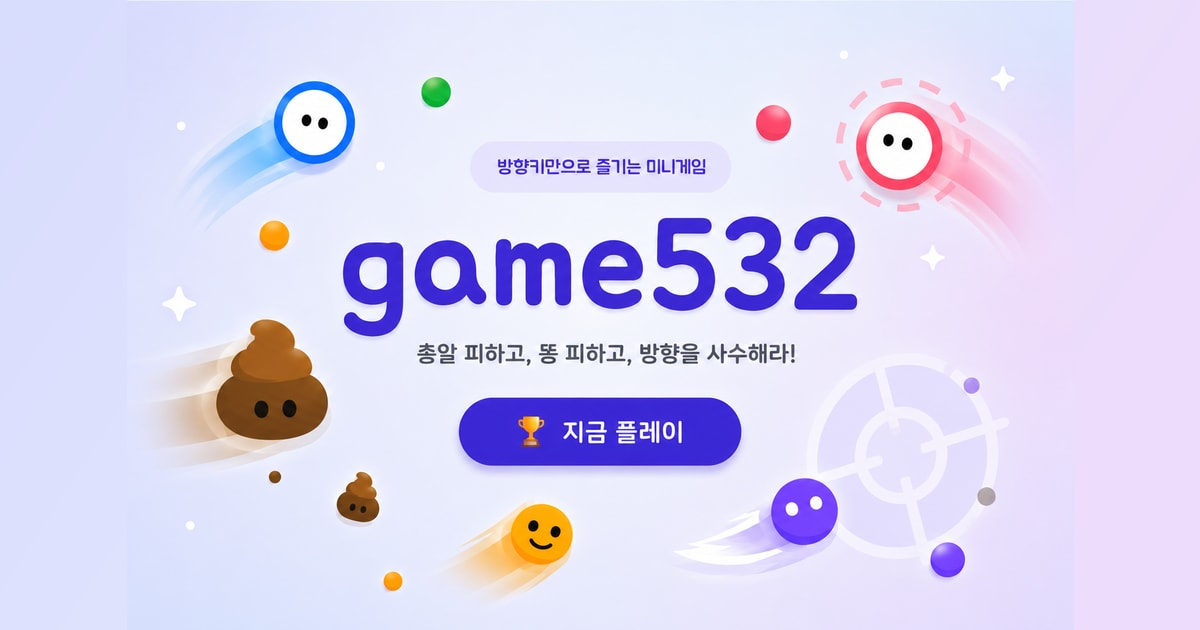
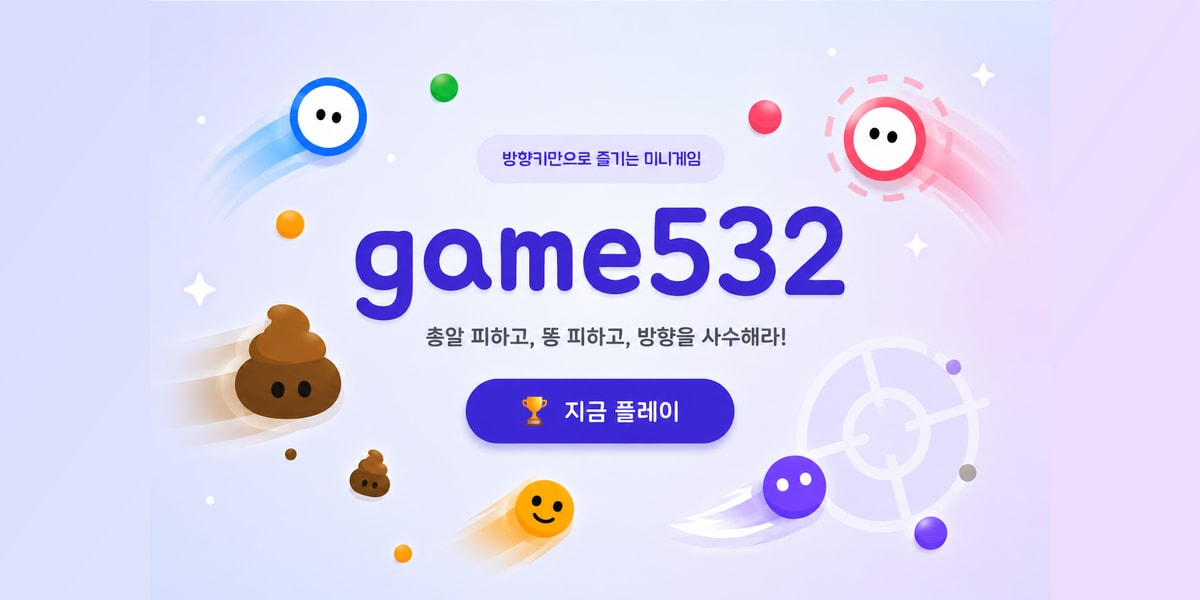
fix: share image to exactly 2:1 so no platform crops the artwork
Checked the live file first: it was 1200x630 and matched the declared metadata
exactly, and cleared every platform's minimum and size cap. The problem was
narrower than a mismatch.

At 1.905:1, KakaoTalk and Twitter render 2:1 and trimmed 15px off the top and
bottom — straight into the illustration. At exactly 1200x600 those two crop
nothing, and Facebook/LinkedIn's 1.91:1 trim takes ~27px off each side, which
lands in the gradient margin. Every platform now crops only into padding.

The canvas is rebuilt from the source art rather than resized from the previous
export, so the illustration is regenerated at 901x600 with wider margins and
loses no detail. 63KB -> 59KB.

og:image:height updated alongside it; a declared size that disagrees with the
file is worse than none.

diff --git a/app/layout.tsx b/app/layout.tsx
@@ -57,8 +57,12 @@ const SITE_URL =
  */
 const OG_IMAGE = {
   url: "/og.jpg",
+  // Exactly 2:1. KakaoTalk and Twitter render at 2:1 and so crop nothing;
+  // Facebook and LinkedIn want 1.91:1 and trim ~27px off each side, which lands
+  // in the gradient margin rather than the artwork. At the old 1200x630 that
+  // trim came off the top and bottom instead, cutting into the illustration.
   width: 1200,
-  height: 630,
+  height: 600,
   type: "image/jpeg",
   alt: "게임532 — 총알 피하고, 똥 피하고, 방향을 사수해라!",
 };
